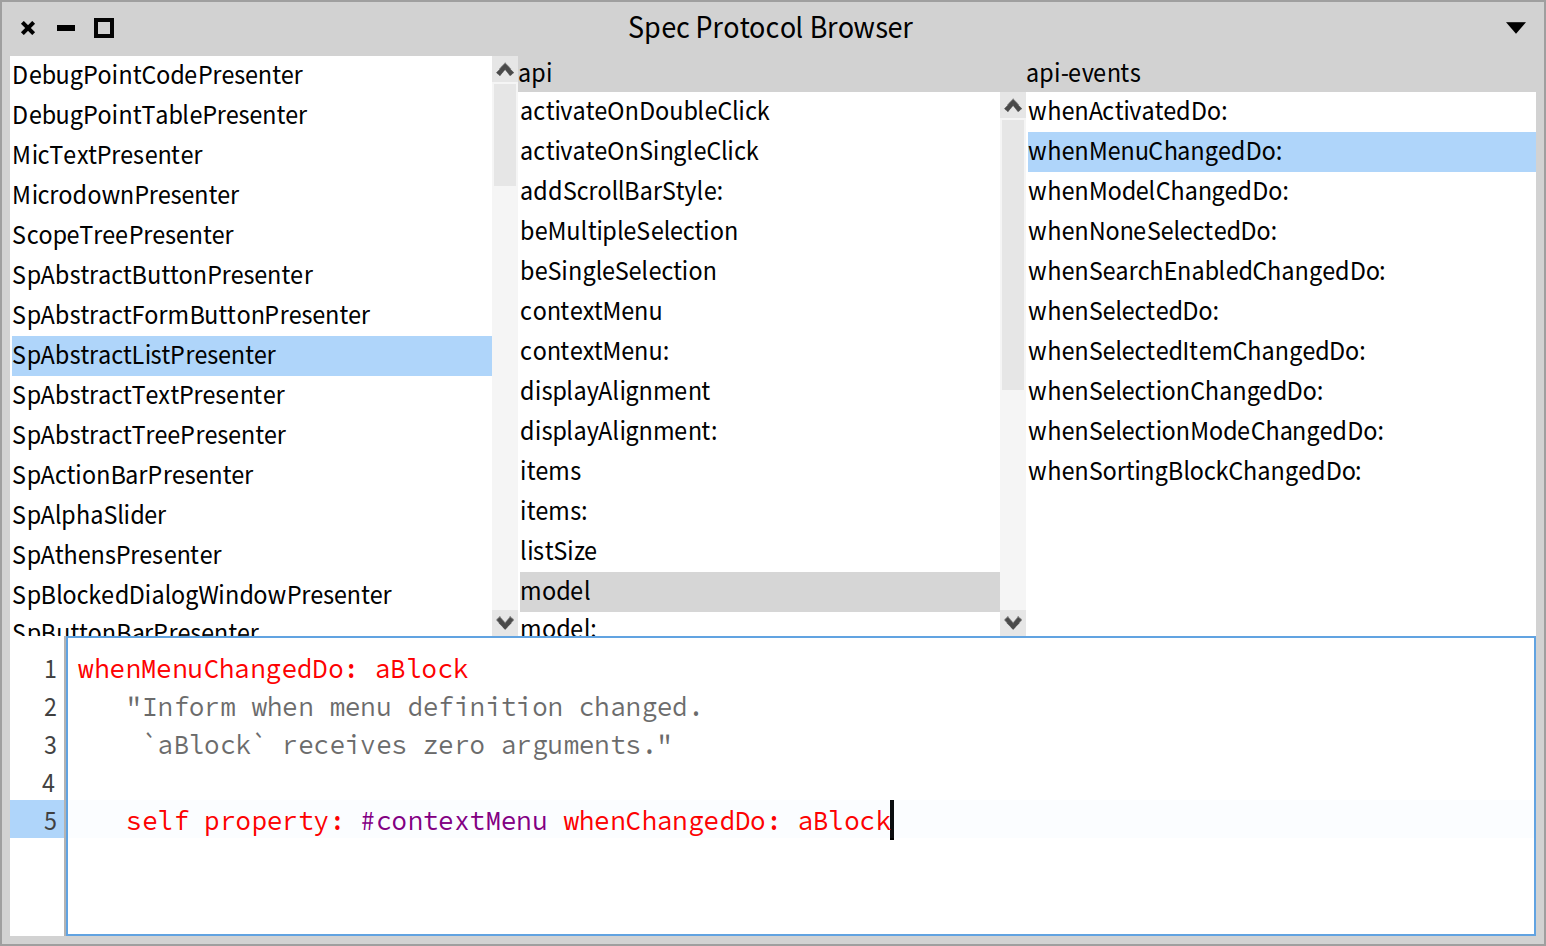
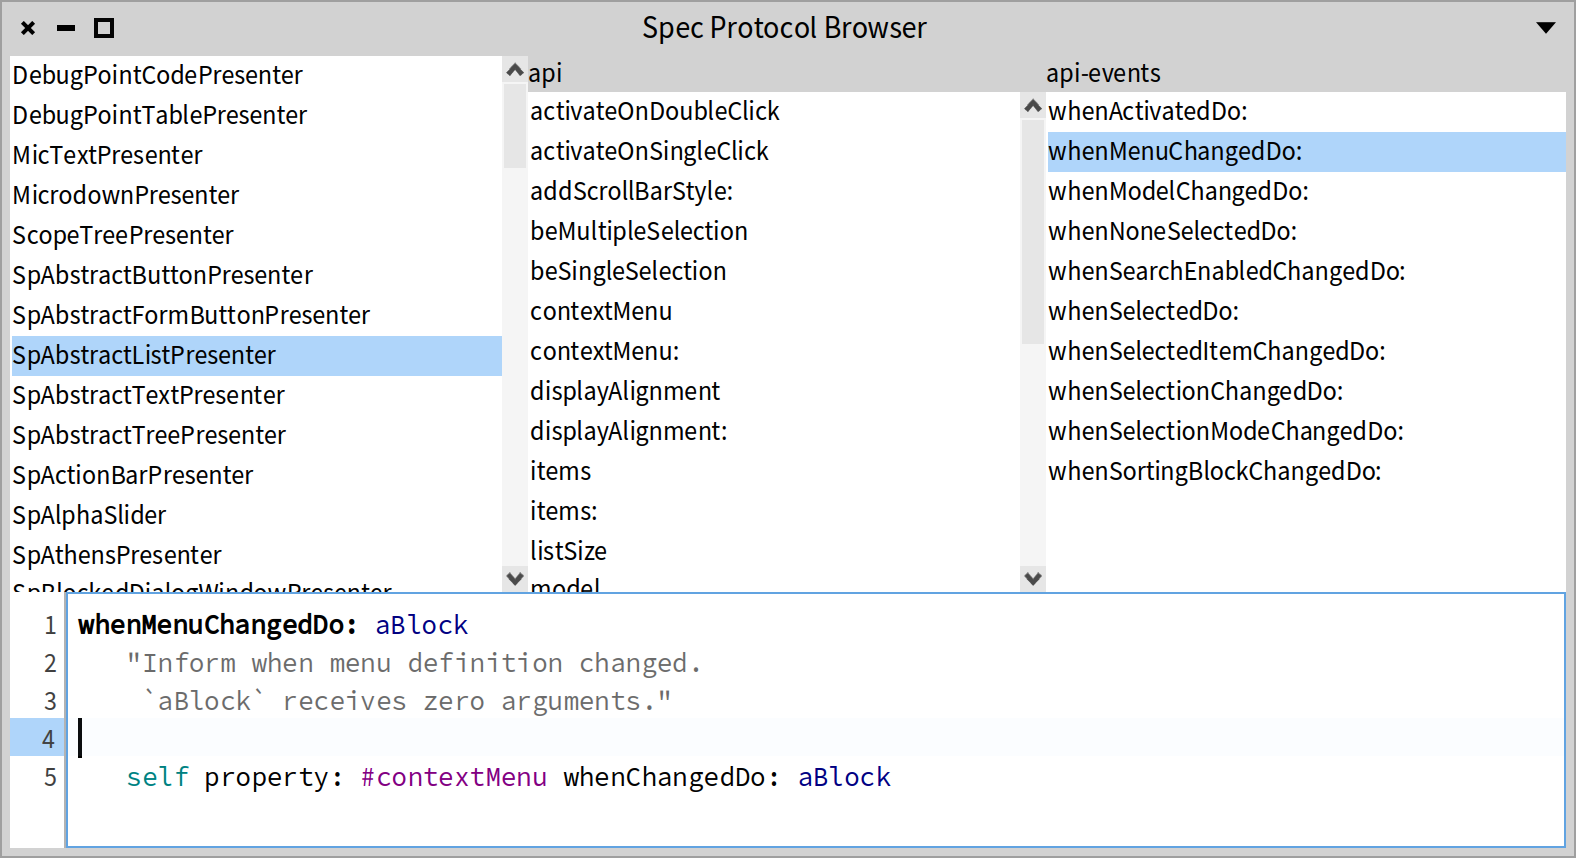
Replace ProtocolBrowser screenshot and improve ProtocolCodeBrowserPresenter >> connectPresenters to display method source with syntax coloring

Changed region(s): [[0.0, 0.0303, 0.9935, 0.9394], [0.4036, 0.0, 0.5899, 0.0606], [0.031, 0.9697, 0.0621, 1.0]]

diff --git a/Chapters/Reuse/Reuse.md b/Chapters/Reuse/Reuse.md
@@ -450,10 +450,10 @@ ProtocolCodeBrowserPresenter >> connectPresenters
 		text behavior: selection selectedItem ].
 	viewer whenSelectionInAPIChanged: [ :selection |
 		selection selectedItem
-			ifNotNil: [ :item | text text: item sourceCode ] ].
+			ifNotNil: [ :item | text beForMethod: item; text: item sourceCode ] ].
 	viewer whenSelectionInEventChanged: [ :selection |
 		selection selectedItem
-			ifNotNil: [ :item | text text: item sourceCode ] ]
+			ifNotNil: [ :item | text beForMethod: item; text: item sourceCode ] ]
 ```
 
 With the current implementation of `initializePresenters`, opening a window with `ProtocolCodeBrowserPresenter new open` results in a vertical layout for the `ProtocolViewerPresenter` instance held in the `viewer` instance variable because its default layout is the vertical layout. Our objective was to use a different layout. That can be achieved by sending `layout:` to the `viewer`. So let's adapt `initializePresenters` that way.
